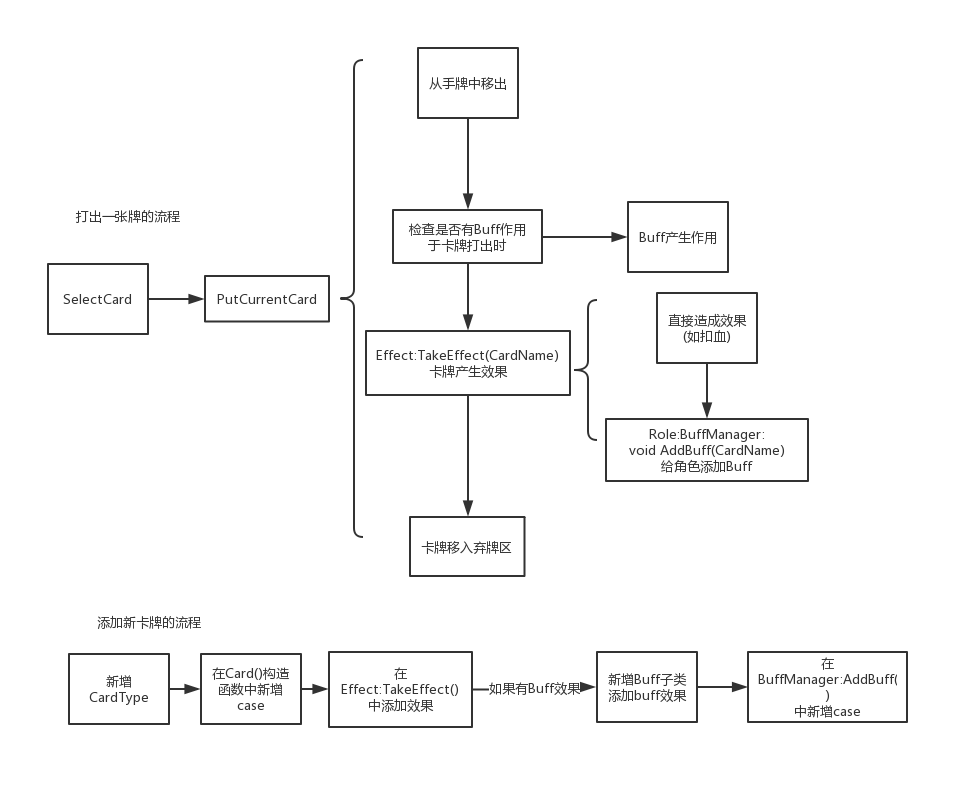
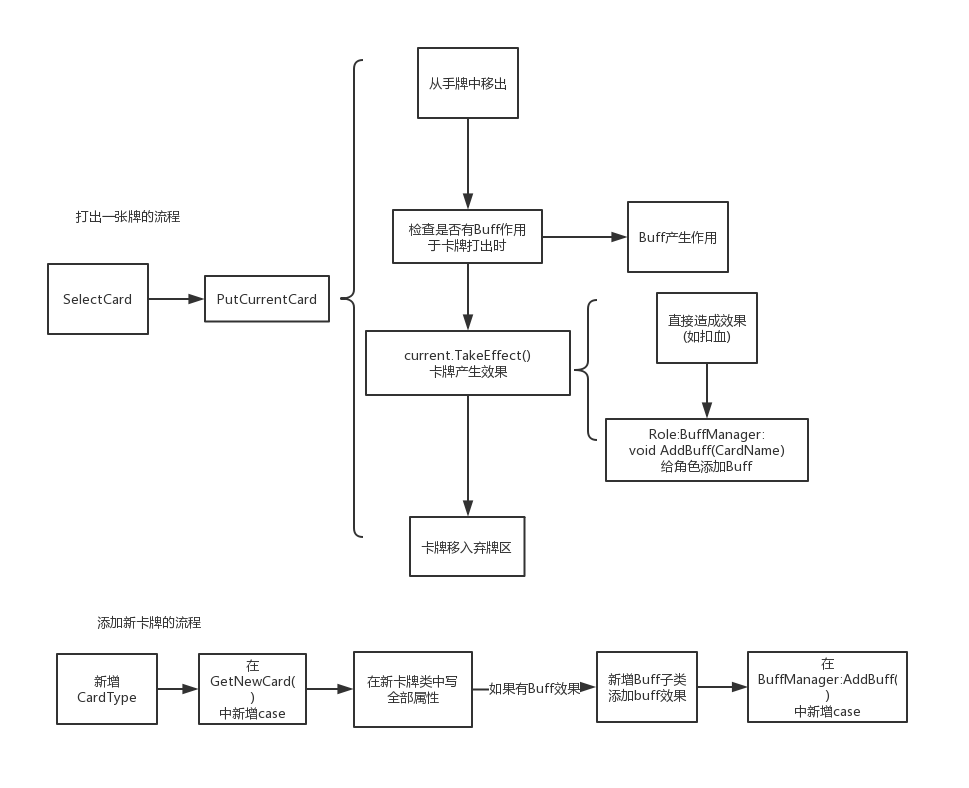
小幅修改

Changed region(s): [[0.0619, 0.8223, 0.4954, 0.9137], [0.4025, 0.4264, 0.5882, 0.4569]]

diff --git a/Assets/Scripts/Controller/EnemyAI.cs b/Assets/Scripts/Controller/EnemyAI.cs
@@ -4,43 +4,43 @@ using UnityEngine;
 
 public class EnemyAI : MonoBehaviour
 {
-    Player player ;
-    Enemy enemy ;
+    Player player;
+    Enemy enemy;
     List<Card> cards;
     List<Card> handCards;
     int ExpenseLeast;
 
     void Start()
     {
-        enemy =  GameObject.Find("Battle").GetComponent<BattleSystem>().GetEnemy();
+        enemy = GameObject.Find("Battle").GetComponent<BattleSystem>().GetEnemy();
         player = Player.GetInstance();
         cards = new List<Card>();
         handCards = new List<Card>();
-        
+
     }
 
     void InitLibrary()
     {
         int i = 0;
-        for (i=0 ;i<16;i++)
+        for (i = 0; i < 16; i++)
         {
-            cards.Add(new Card(CardName.Complain));
+            cards.Add(CardManager.GetNewCard(CardName.Complain));
         }
-        for (i=0;i<6;i++)
+        for (i = 0; i < 6; i++)
         {
-            cards.Add(new Card(CardName.DullAtmosphere));   
+            cards.Add(CardManager.GetNewCard(CardName.DullAtmosphere));
         }
-        for (i=0;i<3;i++)
+        for (i = 0; i < 3; i++)
         {
-            cards.Add(new Card(CardName.WeiYuChouMou));   
+            cards.Add(CardManager.GetNewCard(CardName.WeiYuChouMou));
         }
-        for (i=0;i<5;i++)
+        for (i = 0; i < 5; i++)
         {
-            cards.Add(new Card(CardName.OuDuanSiLian));   
+            cards.Add(CardManager.GetNewCard(CardName.OuDuanSiLian));
         }
-         for (i=0;i<1;i++)
+        for (i = 0; i < 1; i++)
         {
-            cards.Add(new Card(CardName.Confess));   
+            cards.Add(CardManager.GetNewCard(CardName.Confess));
         }
     }
 
@@ -81,7 +81,7 @@ public class EnemyAI : MonoBehaviour
                         break;
 
                     case CardName.NoNameFire:
-                    
+
                         break;
 
                     case CardName.Vent:
@@ -101,11 +101,11 @@ public class EnemyAI : MonoBehaviour
                                 rankLeast = 10;
                                 temp = card;
                             }
-                        } 
+                        }
                         else
                         {
-                           if (rankLeast < 3)
-                           {
+                            if (rankLeast < 3)
+                            {
                                 rankLeast = 3;
                                 temp = card;
                             }
@@ -117,122 +117,122 @@ public class EnemyAI : MonoBehaviour
                         {
                             rankLeast = 4;
                             temp = card;
-                        } 
+                        }
                         break;
 
 
                     case CardName.WeiYuChouMou:
-                    if (flag && handCards.Count < 4)
-                    {
-                        if (rankLeast < 6)
+                        if (flag && handCards.Count < 4)
                         {
-                            rankLeast = 6;
-                            temp = card;
+                            if (rankLeast < 6)
+                            {
+                                rankLeast = 6;
+                                temp = card;
+                            }
                         }
-                    }
-                    else if (flag && enemy.GetCardManager.ExpenseCurrent == 1)
-                    {
-                        if (rankLeast < 5)
+                        else if (flag && enemy.GetCardManager.ExpenseCurrent == 1)
                         {
-                            rankLeast = 5;
-                            temp = card;
+                            if (rankLeast < 5)
+                            {
+                                rankLeast = 5;
+                                temp = card;
+                            }
                         }
-                    }
-                    else 
-                    {
-                        if (rankLeast < 1)
+                        else
                         {
-                            rankLeast = 1;
-                            temp = card;
+                            if (rankLeast < 1)
+                            {
+                                rankLeast = 1;
+                                temp = card;
+                            }
                         }
-                    }
-                    break;
+                        break;
 
-                case CardName.OuDuanSiLian:   
-                    if (flag && handCards.Count < 10)
-                    {
-                        if (rankLeast < 5)
+                    case CardName.OuDuanSiLian:
+                        if (flag && handCards.Count < 10)
                         {
-                            rankLeast = 5;
-                            temp = card;
+                            if (rankLeast < 5)
+                            {
+                                rankLeast = 5;
+                                temp = card;
+                            }
                         }
-                    }
-                    else if ((!flag) && handCards.Count < 12)
-                    {
-                        if (rankLeast < 5)
+                        else if ((!flag) && handCards.Count < 12)
                         {
-                            rankLeast = 5;
-                            temp = card;
+                            if (rankLeast < 5)
+                            {
+                                rankLeast = 5;
+                                temp = card;
+                            }
                         }
-                    }
-                    else if (handCards.Count < 5)
-                    {
-                        if (rankLeast < 5)
+                        else if (handCards.Count < 5)
                         {
-                            rankLeast = 5;
-                            temp = card;
+                            if (rankLeast < 5)
+                            {
+                                rankLeast = 5;
+                                temp = card;
+                            }
                         }
-                    }
-                    else
-                    {
-                        if (rankLeast < 2 )
+                        else
                         {
-                            rankLeast = 2;
-                            temp = card;  
-                        }
-                    }
-
-                    break;
-
-
-                case CardName.Confess:
-                    if (player.GetDespondent > 80 || (player.GetDespondent > 40 && player.GetCardManager.CardsNum> 10))
-                    {
-                        if (rankLeast < 5)
-                        {
-                           rankLeast = 5;
-                            temp = card; 
+                            if (rankLeast < 2)
+                            {
+                                rankLeast = 2;
+                                temp = card;
+                            }
                         }
 
-                    }
-                    else 
-                    {
-                        if (rankLeast < 0 )
+                        break;
+
+
+                    case CardName.Confess:
+                        if (player.GetDespondent > 80 || (player.GetDespondent > 40 && player.GetCardManager.CardsNum > 10))
                         {
-                            rankLeast = 0;
-                            temp = card;
+                            if (rankLeast < 5)
+                            {
+                                rankLeast = 5;
+                                temp = card;
+                            }
+
                         }
-                    }
-                    break;
+                        else
+                        {
+                            if (rankLeast < 0)
+                            {
+                                rankLeast = 0;
+                                temp = card;
+                            }
+                        }
+                        break;
 
-                case CardName.Heal:
+                    case CardName.Heal:
 
-                    break;
+                        break;
 
-                case CardName.Comfort:
-      
-                    break;
+                    case CardName.Comfort:
+
+                        break;
 
 
                 }
 
             }
 
-        if (temp.GetName != CardName.Empty )
-        {
-            EffectProcess.TakeEffect(temp, self, target);
-            handCards.Remove(temp);
-            enemy.GetCardManager.ExpenseCurrent -= temp.GetCost;
-        }
-        foreach (Card cardTemp in handCards)
-        {
-            if (ExpenseLeast < cardTemp.GetCost)
+            if (temp.GetName != CardName.Empty)
             {
-                ExpenseLeast = cardTemp.GetCost;   
+                temp.TakeEffect(self, target);
+                handCards.Remove(temp);
+                enemy.GetCardManager.ExpenseCurrent -= temp.GetCost;
             }
-        }
+            foreach (Card cardTemp in handCards)
+            {
+                if (ExpenseLeast < cardTemp.GetCost)
+                {
+                    ExpenseLeast = cardTemp.GetCost;
+                }
+            }
 
         }
-    
+
     }
 }

diff --git a/Assets/Scripts/Model/BuffManager.cs b/Assets/Scripts/Model/BuffManager.cs
@@ -45,14 +45,16 @@ public class BuffManager
 
     public void BuffReduceLayer()
     {
-        foreach (Buff buff in buffs)
+        int tmp = buffs.Count;
+        for(int i = tmp - 1; i >= 0; i--)
         {
-            buff.Layer--;
-            if (buff.Active == false)
+            buffs[i].Layer--;
+            if (buffs[i].Active == false)
             {
-                buffs.Remove(buff);
+                buffs.Remove(buffs[i]);
             }
         }
+
     }
 
 

diff --git a/readme.md b/readme.md
@@ -1,24 +1,28 @@
 # Emotion
 
-# 
-
 a rogue-like card game
+
+
+
+## 5.12
+
+* 重写了卡牌的管理方式,现在每张卡牌都从基类Card派生
+* eg: 添加卡牌方式从 Add(new Card(CardName)) 改为 Add(CardManager.GetNewCard(CardName))
+* 删除Effect类,直接在Card类中写卡牌效果
+* eg: 从 Effect.TakeEffect(CardName) 改为 card.TakeEffect()
+* 修改了UML图等
 
 ## 5.11
 
-> * 完成紫色卡牌的ai
-> 
-> * 有些疑问，待交流后进一步实施
-> 
-> * 暂未改动view上的问题
-
+* 完成紫色卡牌的ai
+* 有些疑问，待交流后进一步实施
+* 暂未改动view上的问题
 
 
 # 5.9
 
-> * 对接代码，将view与代码对接
-> 
-> * 完成enemyAI的大致思路
+* 对接代码，将view与代码对接
+* 完成enemyAI的大致思路
 
 ## 5.6
 
